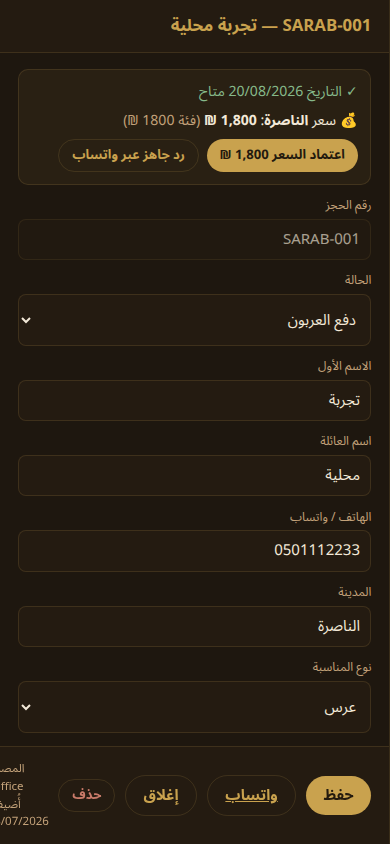
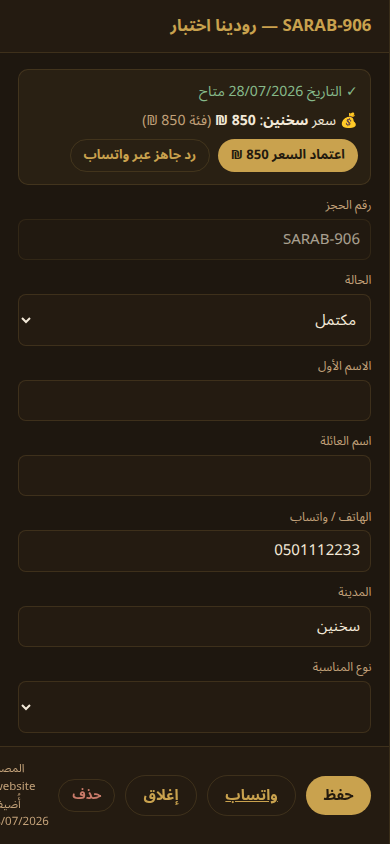
Office: a completed event can no longer skip the finance list
Leads from the website form and واتساب are created without a رقم حجز, and
ensureEventFinance keys the P&L row on booking_no — so confirming such a lead
and marking it مكتمل seeded nothing, silently keeping the event out of
الأرباح والمصاريف (found on a real client: רודינה חלאילה, 850 ₪).

- ensureBookingNo: reaching مؤكد/دفع العربون/مكتمل assigns the next SARAB-NNN
  (existing numbers untouched), and the PATCH handler runs it before the seed.
- /office/api/finance returns `missing` — completed bookings with no P&L row —
  shown in the tab as a banner with a per-row «أضف للمالية» button that seeds
  through the same helpers as the automatic path.
- Backfilled the one affected record on production (SARAB-088 + its finance
  row); diffed against ops/db-backups/2026-07-28-pre-finance-backfill/:
  one field changed, one row added, nothing deleted.
- New test _vfinance.mjs; existing office suite re-run green.

diff --git a/public/office/index.html b/public/office/index.html
@@ -152,6 +152,15 @@
   }
   tfoot td:first-child{color:var(--gold)}
 
+  /* catch-up list for completed events missing from the P&L: on a phone keep the client,
+     the date, what was collected and the button — the rest would push the action into a
+     horizontal scroll nobody would find */
+  @media (max-width:720px){
+    #finmiss th:nth-child(1), #finmiss td:nth-child(1),
+    #finmiss th:nth-child(3), #finmiss td:nth-child(3),
+    #finmiss th:nth-child(5), #finmiss td:nth-child(5){display:none}
+  }
+
   /* quick date-availability check: a filter button that pops the calendar, a verdict
      banner, and any real booking on that date floated to the top and flagged red */
   .dc-wrap{position:relative; display:inline-flex}
@@ -622,6 +631,13 @@ async function loadFinance() { FIN = await api('/office/api/finance'); renderFin
 function renderFinance() {
   const k = FIN.kpi;
   const adv = FIN.advances || [];
+  // Completed events the P&L list doesn't hold yet — the owner would be calculating without them.
+  const miss = FIN.missing || [];
+  // Same rule the server seeds a row with: a completed event has collected its price minus any
+  // balance still outstanding; with no price recorded, fall back to the deposit we do know.
+  const collected = (m) => (m.price != null
+    ? Number(m.price) - (Number(m.remaining) || 0)
+    : Number(m.deposit) || 0);
   const advIn = sumCol(adv, 'deposit');
   const advDue = sumCol(adv, 'remaining');
   // Net income counts the money actually RECEIVED (paid on events + advances in hand),
@@ -660,6 +676,23 @@ function renderFinance() {
         <td class="num">${money(advDue)}</td><td></td></tr></tfoot>` : ''}
     </table>
     <div class="addrow"><span class="muted" style="font-size:.8rem">حجوزات مؤكدة دفعت عربوناً ولم تُنجز بعد — للاطّلاع فقط (تُدار من تبويب الحجوزات)</span></div></div>
+
+    ${miss.length ? `<div class="tablebox" id="finmiss">
+      <div class="verdict taken" style="margin:0">⚠ مناسبات مكتملة غير مُدرجة في الأرباح والمصاريف
+        <small>لن تدخل في الحساب حتى تُضاف — اضغط «أضف للمالية» ويُنشأ السطر جاهزاً بالسعر والمدفوع</small></div>
+      <table>
+        <thead><tr><th>الرقم</th><th>العميل</th><th>المدينة</th><th>التاريخ</th><th>السعر</th><th>المحصّل</th><th></th></tr></thead>
+        <tbody>${miss.map((m) => `<tr>
+          <td class="num muted">${esc(m.booking_no || '—')}</td>
+          <td><b>${esc(m.client || '—')}</b></td>
+          <td>${esc(m.city || '—')}</td>
+          <td class="num">${dmy(m.event_date)}</td>
+          <td class="num">${money(m.price)}</td>
+          <td class="num">${money(collected(m))}</td>
+          <td><button class="btn btn--sm finadd" data-id="${m.id}">أضف للمالية</button></td>
+        </tr>`).join('')}</tbody>
+      </table>
+    </div>` : ''}
 
     <div class="tablebox" id="finev"><table>
       <thead><tr><th>الرقم</th><th>العميل</th><th>المدينة</th><th>التاريخ</th><th>السعر</th><th>المدفوع</th><th>المصاريف</th><th>الصافي</th></tr></thead>
@@ -703,6 +736,12 @@ function renderFinance() {
       .catch((e) => { if (e.message !== 'unauthorized') toast('لم يُحفظ — تحقق من القيم', true); });
   wireEditors($('#finev', box), EVF, send('event'));
   wireEditors($('#fingen', box), GENF, send('general'));
+  // Catch-up button: the server seeds the row from the booking itself (same helper the
+  // automatic path uses), then the whole tab re-renders with it in place.
+  $$('.finadd', box).forEach((btn) => btn.onclick = () => {
+    btn.disabled = true;
+    send('event')('POST', { from_booking: Number(btn.dataset.id) });
+  });
 }
 
 let INV = null;

diff --git a/functions/office/api/finance.js b/functions/office/api/finance.js
@@ -6,6 +6,7 @@
   actually received, not the demanded price).
   Auth: ../_middleware.js.
 */
+import { ensureBookingNo, ensureEventFinance } from './bookings.js'
 
 const EV_FIELDS = ['booking_no', 'event_date', 'city', 'client', 'price', 'paid', 'worker1',
   'worker2', 'hours_cost', 'transport', 'printing', 'other', 'tax_pct', 'tax_value']
@@ -25,7 +26,7 @@ const val = (k, v, nums) => {
 }
 
 async function payload(env) {
-  const [ev, gen, kpi, adv] = await env.DB.batch([
+  const [ev, gen, kpi, adv, miss] = await env.DB.batch([
     env.DB.prepare('SELECT * FROM event_finances ORDER BY (event_date IS NULL), event_date DESC, id DESC'),
     env.DB.prepare('SELECT * FROM general_expenses ORDER BY (date IS NULL), date DESC, id DESC'),
     env.DB.prepare(`SELECT
@@ -41,8 +42,26 @@ async function payload(env) {
                     FROM bookings
                     WHERE status IN ('مؤكد','دفع العربون') AND COALESCE(deposit, 0) > 0
                     ORDER BY (event_date IS NULL), event_date ASC, id ASC`),
+    // Completed events with no P&L row — normally none (one is seeded the moment a booking
+    // turns مكتمل), so anything here is a gap: an event the owner would otherwise be
+    // calculating without. A booking with no booking_no can't match a finance row at all,
+    // hence the NULL-safe comparison. Surfaced in the tab with a one-click add.
+    env.DB.prepare(`SELECT b.id, b.booking_no, b.event_date, b.city, b.name AS client,
+                           b.price, b.deposit, b.remaining
+                    FROM bookings b
+                    WHERE b.status = 'مكتمل'
+                      AND NOT EXISTS (SELECT 1 FROM event_finances f
+                                      WHERE f.booking_no IS NOT NULL AND f.booking_no = b.booking_no)
+                    ORDER BY (b.event_date IS NULL), b.event_date DESC, b.id DESC`),
   ])
-  return { ok: true, events: ev.results, general: gen.results, kpi: kpi.results[0], advances: adv.results }
+  return {
+    ok: true,
+    events: ev.results,
+    general: gen.results,
+    kpi: kpi.results[0],
+    advances: adv.results,
+    missing: miss.results,
+  }
 }
 
 async function recomputeEvent(env, id) {
@@ -60,6 +79,17 @@ export async function onRequestGet({ env }) {
 export async function onRequestPost({ request, env }) {
   let b
   try { b = await request.json() } catch { return bad('bad-json') }
+  // "أضف للمالية" on a completed booking the list is missing: seed the row straight from the
+  // booking, through the very same helpers the automatic path uses (numbering + idempotent
+  // insert), so a manual catch-up and an automatic seed can never disagree.
+  if (b.from_booking) {
+    const bk = await env.DB.prepare("SELECT * FROM bookings WHERE id = ?1 AND status = 'مكتمل'")
+      .bind(Number(b.from_booking)).first()
+    if (!bk) return bad('booking-not-found', 404)
+    await ensureBookingNo(env, bk)
+    await ensureEventFinance(env, bk)
+    return Response.json(await payload(env))
+  }
   const [fields, nums, table] = b.table === 'event'
     ? [EV_FIELDS, EV_NUM, 'event_finances']
     : b.table === 'general' ? [GEN_FIELDS, GEN_NUM, 'general_expenses'] : [null]

diff --git a/functions/office/api/bookings.js b/functions/office/api/bookings.js
@@ -31,10 +31,40 @@ export function cleanValue(key, v) {
   return String(v).trim().slice(0, 500) || null
 }
 
+// Next SARAB-NNN, continuing the workbook numbering.
+async function nextBookingNo(env) {
+  const { results } = await env.DB.prepare(
+    "SELECT MAX(CAST(substr(booking_no, 7) AS INTEGER)) AS m FROM bookings WHERE booking_no LIKE 'SARAB-%'"
+  ).all()
+  return `SARAB-${String((results[0]?.m || 0) + 1).padStart(3, '0')}`
+}
+
+// Leads that arrive on their own (website form, WhatsApp) start as استفسار with no number —
+// numbering is for real bookings. The moment such a lead becomes one (مؤكد / دفع العربون /
+// مكتمل) it gets the next SARAB-NNN, so it carries an identity in the owner's system and can
+// be linked from the finance tables. Idempotent: an existing number is never changed. Retries
+// on the UNIQUE clash two concurrent saves could produce. Mutates `row` and returns it.
+export async function ensureBookingNo(env, row) {
+  if (!row || row.booking_no || !BOOKED_STATUSES.includes(row.status)) return row
+  for (let attempt = 0; attempt < 3; attempt++) {
+    const no = await nextBookingNo(env)
+    try {
+      const { meta } = await env.DB.prepare(
+        'UPDATE bookings SET booking_no = ?1 WHERE id = ?2 AND booking_no IS NULL'
+      ).bind(no, row.id).run()
+      if (meta.changes) row.booking_no = no
+      return row
+    } catch { /* someone took that number between the read and the write — try the next one */ }
+  }
+  return row
+}
+
 // When a booking becomes مكتمل, make sure it has a row in the per-event P&L table
 // (أرباح ومصاريف المناسبات) seeded from the booking — so the owner only fills in the
 // costs. Idempotent: keyed on booking_no, so re-saving a completed booking (or one that
-// was already given a finance row / imported) never creates a duplicate.
+// was already given a finance row / imported) never creates a duplicate. Callers run
+// ensureBookingNo first: without a number there is nothing to key on and the event would
+// silently never reach the finance list.
 export async function ensureEventFinance(env, row) {
   if (!row || row.status !== 'مكتمل' || !row.booking_no) return
   const existing = await env.DB.prepare('SELECT id FROM event_finances WHERE booking_no = ?1')
@@ -156,12 +186,7 @@ export async function onRequestPost({ request, env }) {
   row.added_at ||= new Date().toISOString().slice(0, 10)
   if (!row.booked_at && BOOKED_STATUSES.includes(row.status)) row.booked_at = row.added_at
 
-  // Next SARAB-NNN, continuing the workbook numbering.
-  const { results } = await env.DB.prepare(
-    "SELECT MAX(CAST(substr(booking_no, 7) AS INTEGER)) AS m FROM bookings WHERE booking_no LIKE 'SARAB-%'"
-  ).all()
-  const next = (results[0]?.m || 0) + 1
-  row.booking_no = `SARAB-${String(next).padStart(3, '0')}`
+  row.booking_no = await nextBookingNo(env)
   row.source = 'office'
 
   const cols = Object.keys(row)

diff --git a/functions/office/api/bookings/[id].js b/functions/office/api/bookings/[id].js
@@ -4,7 +4,7 @@
   normally stay as the ملغي status).
   Auth: ../../_middleware.js.
 */
-import { cleanValue, ensureEventFinance, ensureCityPrice, BOOKED_STATUSES } from '../bookings.js'
+import { cleanValue, ensureBookingNo, ensureEventFinance, ensureCityPrice, BOOKED_STATUSES } from '../bookings.js'
 
 const WRITABLE = [
   'booked_at', 'added_at', 'event_date', 'occasion', 'first_name', 'last_name', 'name', 'phone',
@@ -45,6 +45,9 @@ export async function onRequestPatch({ request, env, params }) {
   if (!meta.changes) return Response.json({ ok: false, error: 'not-found' }, { status: 404 })
 
   const row = await env.DB.prepare('SELECT * FROM bookings WHERE id = ?1').bind(Number(params.id)).first()
+  // A website/WhatsApp lead that just became a real booking gets its SARAB-NNN here — the
+  // finance row is keyed on it, so this must run first (idempotent, existing numbers kept).
+  await ensureBookingNo(env, row)
   // Newly completed booking → auto-seed its row in أرباح ومصاريف المناسبات (idempotent).
   await ensureEventFinance(env, row)
   // Unknown city + a price on the booking → auto-join the price list (idempotent).

diff --git a/docs/05-DEPLOY-AND-BACKEND.md b/docs/05-DEPLOY-AND-BACKEND.md
@@ -555,3 +555,36 @@ Deploying via Wrangler needs a **Cloudflare API token**. Important:
   local DB, and the webhook dedupes on `wamid` — so a **second run crashes** at the
   added_at assertion (no lead created). Clear the local wa tables before re-running:
   `wrangler d1 execute sarab-bookings --local --command "DELETE FROM wa_messages; DELETE FROM wa_contacts; DELETE FROM bookings WHERE source='whatsapp'"`.
+
+### 2026-07-28 — completed events could silently miss the finance list (fixed + backfilled)
+
+The owner spotted it on a real client: **רודינה חלאילה** (سخنين, 28/07/2026, 850 ₪ paid in
+full) was marked **مكتمل** but never appeared in **الأرباح والمصاريف**, so it was missing from
+the profit calculation.
+
+- **Cause**: `ensureEventFinance` seeds the P&L row keyed on `booking_no` and bailed out on
+  `!row.booking_no`. Leads that arrive on their own — website form and واتساب — are created
+  **without** a number (numbering is for real bookings). Confirming such a lead never gave it
+  one, so the moment it turned مكتمل the seed silently did nothing. 56 of the 140 bookings
+  (3 website + 53 WhatsApp) were numberless; 8 of them had already become real bookings.
+- **Fix**: new `ensureBookingNo` in `functions/office/api/bookings.js` — a booking reaching
+  مؤكد / دفع العربون / مكتمل without a number gets the next `SARAB-NNN` (same counter as the
+  office "+ حجز جديد"; existing numbers never change; retries the UNIQUE clash two concurrent
+  saves could cause). The PATCH handler runs it **before** `ensureEventFinance`. The other 7
+  numberless real bookings pick their number up on their next save — no migration needed.
+- **Safety net**: `/office/api/finance` now returns `missing` — مكتمل bookings with no P&L row
+  — and the المالية tab shows them in a red banner above the table with an **«أضف للمالية»**
+  button per row. The button POSTs `{ from_booking: id }`, which the API serves through the
+  *same* two helpers as the automatic path, so a manual catch-up and an automatic seed can
+  never disagree. Zero rows in `missing` = nothing to see, banner hidden.
+- **Backfill** (`ops/db-backups/2026-07-28-pre-finance-backfill/` taken first): guarded,
+  insert-only SQL gave booking 112 the number `SARAB-088` and seeded its finance row
+  (price 850, paid 850, expenses 0, net 850 — costs for the owner to fill in). Diffed against
+  the backup: bookings 140 → 140 with **exactly one** field changed (`#112.booking_no`
+  null → SARAB-088), event_finances 10 → 11 with **one** row added, nothing deleted, nothing
+  else touched. All 11 مكتمل bookings now have a P&L row.
+- Tests: new `_vfinance.mjs` (port 8793) — numberless lead → مكتمل → numbered + seeded,
+  idempotent re-save, owner's hand-entered costs survive it, gap reported in `missing`, the
+  button closes it, non-completed bookings stay out (advances only), UI + no console errors.
+  Green, plus `_venhance`, `_voffice`, `_vdeposit`, `_vstaff`, `_vcity`, `_vcampaign` re-run
+  green. Pages secrets verified intact after the deploy.
